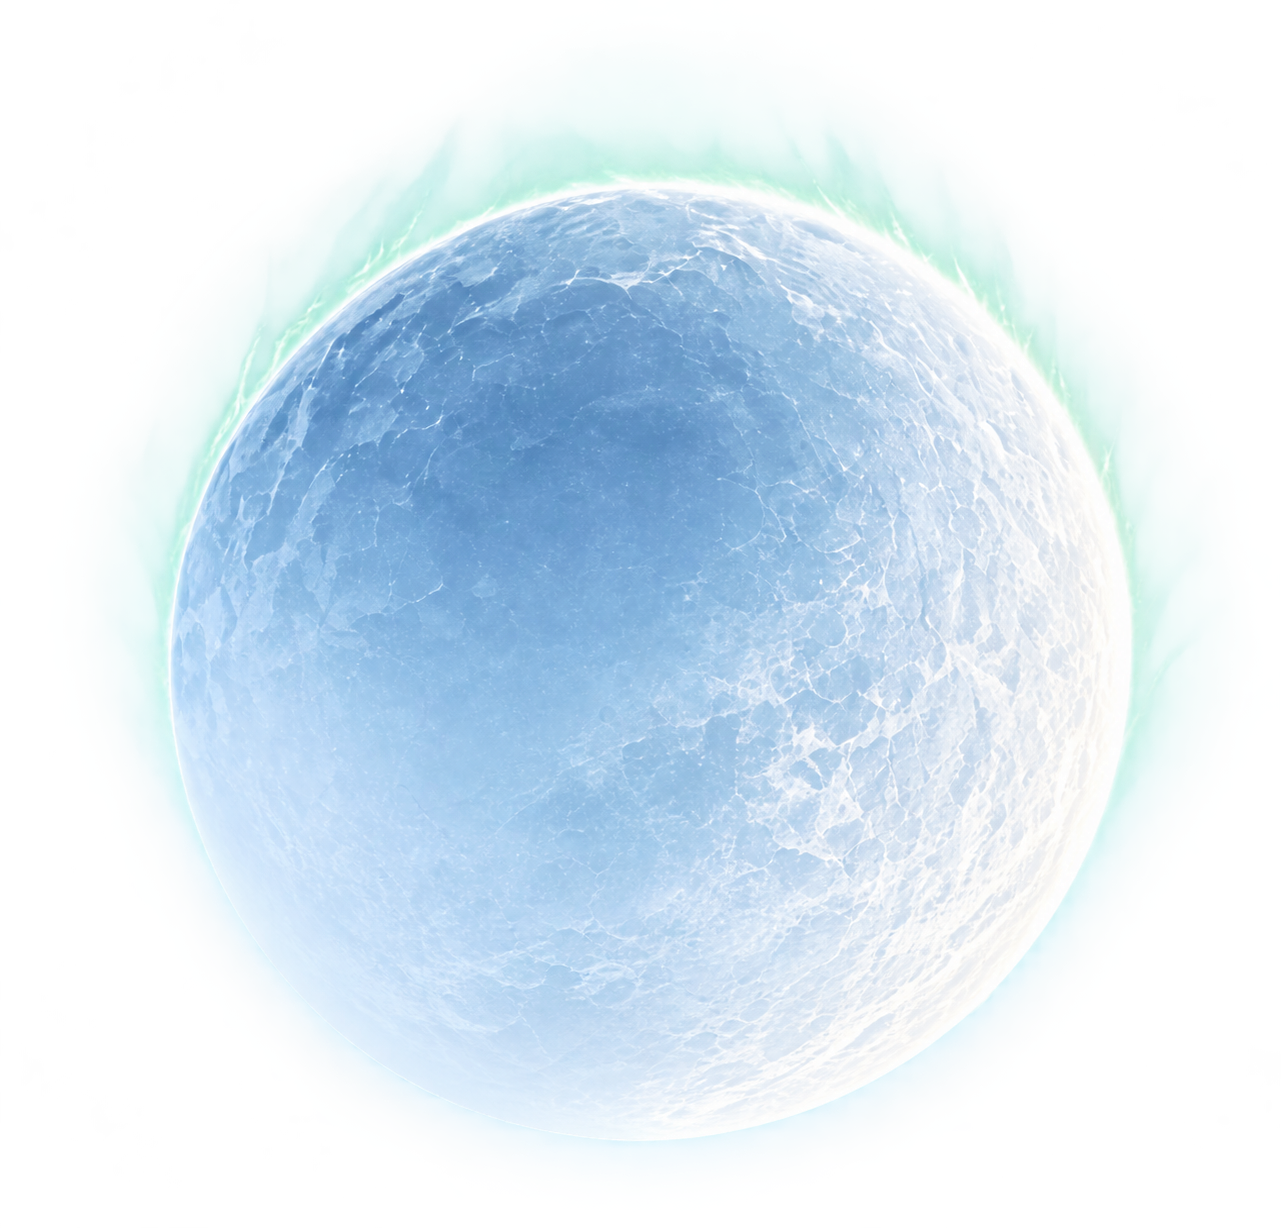
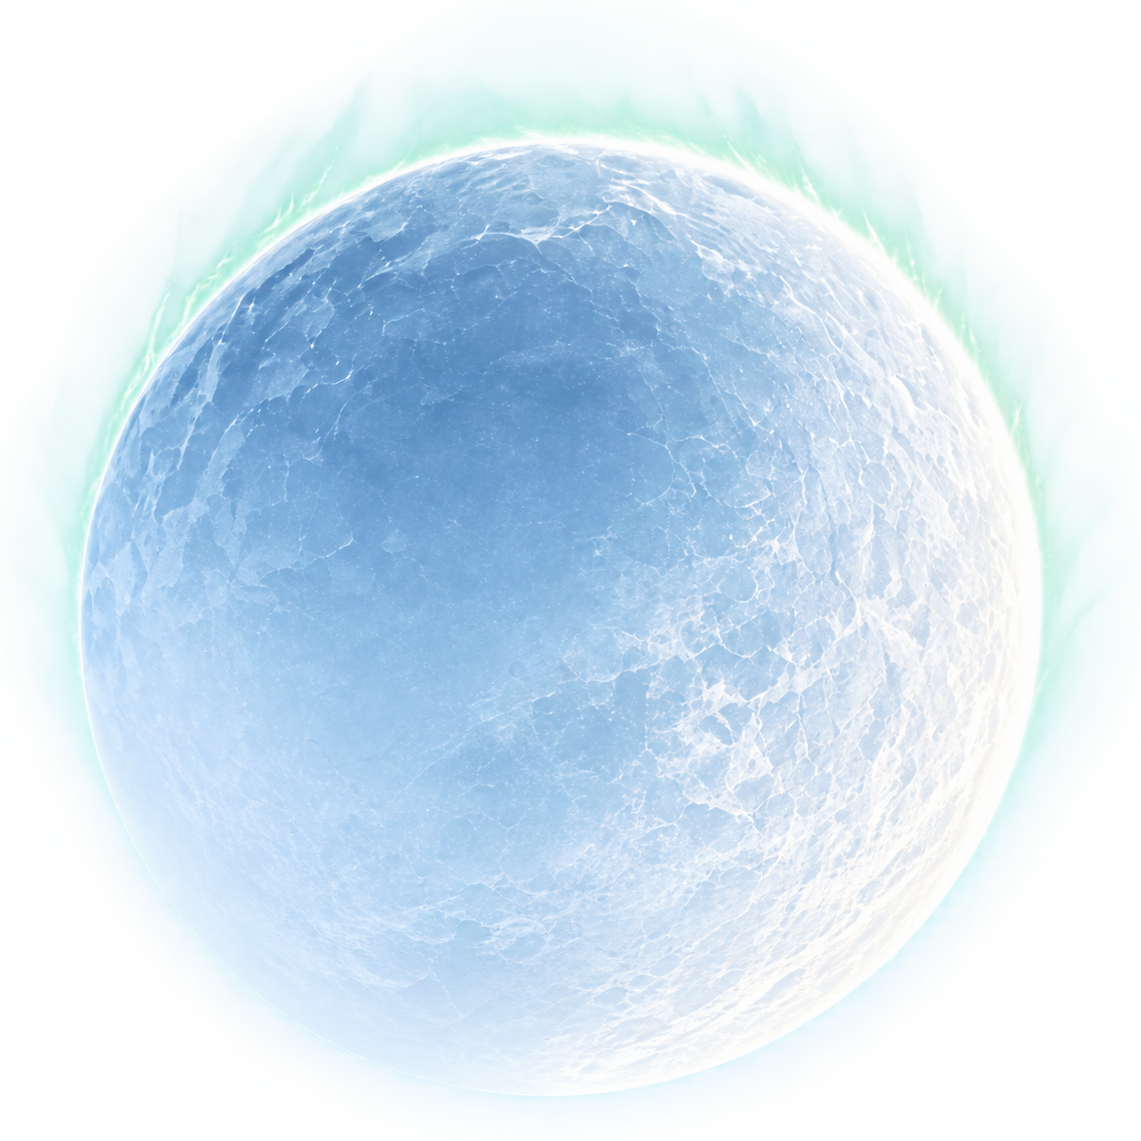
fix: align scroll morph circle pixel-perfectly with 3D sphere origin and diameter

diff --git a/src/components/Scene.tsx b/src/components/Scene.tsx
@@ -5,6 +5,7 @@ import mobileBgWebp from '../assets/mobile-bg.webp'
 import mobileBgPng from '../assets/mobile-bg.png'
 import sphereWebp from '../assets/middle-sphere.webp'
 import spherePng from '../assets/middle-sphere.png'
+import { getSphereMetrics } from '../lib/sphereMetrics'
 
 const prefersReduced = () =>
   typeof window !== 'undefined' &&
@@ -23,8 +24,7 @@ function smoothstep(min: number, max: number, value: number) {
  * CSS custom properties (--mx / --my / --sy) so every layer stays on the GPU.
  *
  * During scroll, the middle sphere co-animates with the VOID Wordmark:
- * scaling down from 1.0 -> 0.15, translating towards the top-left header,
- * and fading from 1.0 -> ~0.12 opacity to become a subtle celestial aura.
+ * scaling down and morphing into the top rounded header bar.
  */
 export function Scene() {
   const root = useRef<HTMLDivElement>(null)
@@ -78,43 +78,33 @@ export function Scene() {
       el.style.setProperty('--my', cy.toFixed(4))
       el.style.setProperty('--sy', Math.min(csy, 600).toFixed(2))
 
-      // Scroll-driven sphere co-animation: morphs into the top rounded bar
+      // Scroll-driven sphere co-animation: exactly matches ScrollHero headerBg morph
       const w = window.innerWidth
       const h = window.innerHeight
-      const isMobile = w <= 640
-      const isLg = w >= 1024
+      const m = getSphereMetrics(w, h)
 
       const transitionDistance = h
       const rawT = Math.min(1, Math.max(0, sy / transitionDistance))
       const morphT = isReduced ? (rawT >= 0.5 ? 1 : 0) : smoothstep(0.04, 0.94, rawT)
 
-      // Sphere geometry matching ScrollHero (capped to 48% viewport height)
-      const sphereD = isMobile
-        ? Math.min(300, Math.max(250, Math.round(Math.min(w * 0.65, h * 0.35))))
-        : Math.min(480, Math.max(220, Math.min(w * 0.44, h * 0.48)))
-      const sphereTopRatio = isMobile ? 0.09 : w <= 768 ? 0.06 : 0.07
-      const sphereHeroCenterY = Math.round(h * sphereTopRatio + sphereD / 2)
-
-      const margin = isMobile ? 8 : isLg ? 24 : 16
-      const targetWidth = w - 2 * margin
-      const targetHeight = isMobile ? 54 : 58
-      const targetCenterY = isMobile ? 33 : 37
-
       // Rises upward along center axis towards top rounded bar
-      const dy = (targetCenterY - sphereHeroCenterY) * morphT
-      const scaleX = 1.0 + (targetWidth / sphereD - 1.0) * morphT
-      const scaleY = 1.0 + (targetHeight / sphereD - 1.0) * morphT
+      const dy = (m.targetCenterY - m.sphereCenterY) * morphT
+      const scaleX = 1.0 + (m.targetWidth / m.sphereD - 1.0) * morphT
+      const scaleY = 1.0 + (m.targetHeight / m.sphereD - 1.0) * morphT
 
       // Sphere photo and glowing mint halo smoothly dissolve into the frosted glass capsule
       const sphereOp = Math.max(0, 1 - rawT / 0.40)
       const haloOp = Math.max(0, 1 - rawT / 0.35)
 
-      // Parallax fades out gently on scroll
-      const parallaxFactor = Math.max(0, 1 - rawT * 2.5)
+      // Mouse tilt parallax only (fades out on scroll so morph stays locked with headerBg)
+      const parallaxFactor = Math.max(0, 1 - rawT * 3)
       const px = cx * -5 * parallaxFactor
-      const py = (cy * -5 - csy * 0.14) * parallaxFactor
+      const py = cy * -5 * parallaxFactor
 
       if (sphereRef.current) {
+        sphereRef.current.style.width = `${m.sphereD}px`
+        sphereRef.current.style.height = `${m.sphereD}px`
+        sphereRef.current.style.top = `${m.sphereTop}px`
         sphereRef.current.style.transform = `translate3d(calc(-50% + ${px.toFixed(2)}px), ${(dy + py).toFixed(2)}px, 0) scale(${scaleX.toFixed(4)}, ${scaleY.toFixed(4)})`
         sphereRef.current.style.opacity = sphereOp.toFixed(3)
         sphereRef.current.style.visibility = sphereOp <= 0.001 ? 'hidden' : 'visible'
@@ -183,17 +173,16 @@ export function Scene() {
       {/* floating middle sphere / planet with atmospheric halo */}
       <div
         ref={sphereRef}
-        className="absolute left-1/2 top-[9%] sm:top-[6%] md:top-[7%]"
+        className="absolute left-1/2"
         style={{
           transformOrigin: 'center center',
-          transform:
-            'translate3d(calc(-50% + var(--mx) * -5px), calc(var(--my) * -5px - var(--sy) * 0.14px), 0)',
+          transform: 'translate3d(-50%, 0, 0)',
         }}
       >
         {/* mint coronal halo aura */}
         <div
           ref={haloRef}
-          className="absolute -inset-[12%] rounded-full mix-blend-screen pointer-events-none transition-opacity duration-200"
+          className="absolute -inset-[8%] rounded-full mix-blend-screen pointer-events-none transition-opacity duration-200"
           style={{
             animation: 'void-halo-pulse 9s ease-in-out infinite',
             background:
@@ -203,14 +192,14 @@ export function Scene() {
         />
 
         {/* high-resolution sphere cutout with gentle float */}
-        <picture>
+        <picture className="block size-full">
           <source srcSet={sphereWebp} type="image/webp" />
           <img
             src={spherePng}
             alt=""
             aria-hidden
             fetchPriority="high"
-            className="h-[65vw] max-h-[300px] min-h-[250px] w-[65vw] max-w-[300px] min-w-[250px] sm:h-[44vw] sm:max-h-[min(480px,48vh)] sm:min-h-[220px] sm:w-[44vw] sm:max-w-[min(480px,48vh)] sm:min-w-[220px] object-contain drop-shadow-[0_10px_35px_rgba(120,196,150,0.22)] select-none pointer-events-none"
+            className="size-full object-contain drop-shadow-[0_10px_35px_rgba(120,196,150,0.22)] select-none pointer-events-none"
             style={{
               animation: 'void-halo-pulse 11s ease-in-out infinite',
             }}

diff --git a/src/components/ScrollHero.tsx b/src/components/ScrollHero.tsx
@@ -3,6 +3,8 @@ import { ChevronDown, GearIcon } from './icons'
 import { SearchBar } from './SearchBar'
 import { Wordmark } from './Wordmark'
 
+import { getSphereMetrics } from '../lib/sphereMetrics'
+
 type Props = {
   query: string
   mode: string
@@ -33,32 +35,26 @@ function calculateMetrics() {
       heroSearchY: 510,
       targetSearchY: 16,
       targetSearchScale: 0.9,
+      sphereD: 300,
+      sphereTop: 72,
+      sphereCenterY: 222,
+      targetWidth: 800,
+      targetHeight: 58,
+      targetCenterY: 37,
     }
   }
 
   const w = window.innerWidth
   const h = window.innerHeight
-  const isMobile = w <= 640
-  const isLg = w >= 1024
+  const sm = getSphereMetrics(w, h)
 
   const transitionDistance = h
-
-  // Sphere geometry matching Scene.tsx (capped to 48% viewport height)
-  const sphereD = isMobile
-    ? Math.min(300, Math.max(250, Math.round(Math.min(w * 0.65, h * 0.35))))
-    : Math.min(480, Math.max(220, Math.min(w * 0.44, h * 0.48)))
-  const sphereTopRatio = isMobile ? 0.09 : w <= 768 ? 0.06 : 0.07
-  const sphereTop = Math.round(h * sphereTopRatio)
-  const sphereCenterY = Math.round(sphereTop + sphereD / 2)
-  const sphereBottom = sphereTop + sphereD
+  const isMobile = sm.isMobile
+  const isLg = sm.isLg
 
   const heroMark = isMobile ? 64 : 104
   const targetMark = isMobile ? 22 : 26
   const markScaleRatio = targetMark / heroMark
-
-  // SearchBar position on mobile
-  const searchBarWidth = (w - 32) * (isMobile ? 0.94 : 0.9)
-  const searchBarLeft = (w - searchBarWidth) / 2
 
   // On desktop: sits on the top-left of the header!
   const targetLeft = isMobile ? 20 : isLg ? 56 : 40
@@ -66,7 +62,7 @@ function calculateMetrics() {
   const targetMarkCenterY = 37
 
   const heroCenterX = w / 2
-  const heroWordmarkY = sphereCenterY
+  const heroWordmarkY = sm.sphereCenterY
   const dxAt1 = targetMarkCenterX - heroCenterX
   const dyAt1 = targetMarkCenterY
 
@@ -74,7 +70,7 @@ function calculateMetrics() {
   const heroTaglineY = heroWordmarkY + heroMark / 2 + (isMobile ? 12 : 16)
 
   // SearchBar is positioned downward just below the sphere bottom, keeping the sphere 100% visible
-  const heroSearchY = sphereBottom + (isMobile ? 18 : 20)
+  const heroSearchY = sm.sphereBottom + (isMobile ? 18 : 20)
 
   // In final state: SearchBar aligns horizontally in the top bar row on desktop and mobile
   const targetSearchY = isMobile ? 10 : 16
@@ -91,6 +87,12 @@ function calculateMetrics() {
     heroSearchY,
     targetSearchY,
     targetSearchScale,
+    sphereD: sm.sphereD,
+    sphereTop: sm.sphereTop,
+    sphereCenterY: sm.sphereCenterY,
+    targetWidth: sm.targetWidth,
+    targetHeight: sm.targetHeight,
+    targetCenterY: sm.targetCenterY,
   }
 }
 
@@ -147,28 +149,8 @@ export function ScrollHero({ query, mode, onMode, onSearch, onHome }: Props) {
 
       // 0. Frosted Glass Header Bar: morphs directly from the central sphere into the top rounded bar
       if (headerBgRef.current) {
-        const w = window.innerWidth
-        const h = window.innerHeight
-        const isMobile = w <= 640
-        const isLg = w >= 1024
-
-        // Sphere geometry matching Scene.tsx (capped to 48% viewport height)
-        const sphereD = isMobile
-          ? Math.min(300, Math.max(250, Math.round(Math.min(w * 0.65, h * 0.35))))
-          : Math.min(480, Math.max(220, Math.min(w * 0.44, h * 0.48)))
-        const sphereTopRatio = isMobile ? 0.09 : w <= 768 ? 0.06 : 0.07
-        const sphereTop = Math.round(h * sphereTopRatio)
-        const sphereHeroCenterY = Math.round(sphereTop + sphereD / 2)
-
-        const margin = isMobile ? 8 : isLg ? 24 : 16
-        const targetWidth = w - 2 * margin
-        const targetHeight = isMobile ? 54 : 58
-        const targetCenterY = isMobile ? 33 : 37
-
         const morphT = prefersReduced()
-          ? rawT >= 0.5
-            ? 1
-            : 0
+          ? (rawT >= 0.5 ? 1 : 0)
           : smoothstep(0.04, 0.94, rawT)
 
         if (morphT <= 0.001) {
@@ -181,15 +163,19 @@ export function ScrollHero({ query, mode, onMode, onSearch, onHome }: Props) {
           headerBgRef.current.style.opacity = op.toFixed(3)
           headerBgRef.current.style.pointerEvents = morphT >= 0.85 ? 'auto' : 'none'
 
-          const currentCenterY = sphereHeroCenterY + (targetCenterY - sphereHeroCenterY) * morphT
-          const currentWidth = sphereD + (targetWidth - sphereD) * morphT
-          const currentHeight = sphereD + (targetHeight - sphereD) * morphT
+          const currentCenterY = m.sphereCenterY + (m.targetCenterY - m.sphereCenterY) * morphT
+          const currentWidth = m.sphereD + (m.targetWidth - m.sphereD) * morphT
+          const currentHeight = m.sphereD + (m.targetHeight - m.sphereD) * morphT
           const currentLeft = (w - currentWidth) / 2
           const currentTop = currentCenterY - currentHeight / 2
 
           // Target border radius: capsule pill on both mobile and desktop
-          const targetRadius = targetHeight / 2
-          const currentRadius = sphereD / 2 + (targetRadius - sphereD / 2) * morphT
+          const targetRadius = m.targetHeight / 2
+          const currentRadius = m.sphereD / 2 + (targetRadius - m.sphereD / 2) * morphT
+
+          // Smoothly fade in border as it morphs into the header capsule
+          const borderOp = smoothstep(0.12, 0.60, rawT)
+          headerBgRef.current.style.borderColor = `rgba(216, 222, 224, ${borderOp.toFixed(3)})`
 
           headerBgRef.current.style.left = `${currentLeft.toFixed(1)}px`
           headerBgRef.current.style.top = `${currentTop.toFixed(1)}px`

diff --git a/src/lib/sphereMetrics.ts b/src/lib/sphereMetrics.ts
@@ -1,0 +1,33 @@
+export function getSphereMetrics(w: number, h: number) {
+  const isMobile = w <= 640
+  const isLg = w >= 1024
+
+  // Explicit, deterministic sphere diameter matching 1:1 cropped middle-sphere asset
+  const sphereD = isMobile
+    ? Math.min(290, Math.max(240, Math.round(w * 0.65)))
+    : Math.min(460, Math.max(240, Math.round(Math.min(w * 0.44, h * 0.46))))
+
+  // Top offset
+  const sphereTopRatio = isMobile ? 0.09 : w <= 768 ? 0.06 : 0.07
+  const sphereTop = Math.round(h * sphereTopRatio)
+  const sphereCenterY = Math.round(sphereTop + sphereD / 2)
+  const sphereBottom = sphereTop + sphereD
+
+  // Target header capsule dimensions
+  const margin = isMobile ? 8 : isLg ? 24 : 16
+  const targetWidth = w - 2 * margin
+  const targetHeight = isMobile ? 54 : 58
+  const targetCenterY = isMobile ? 33 : 37
+
+  return {
+    isMobile,
+    isLg,
+    sphereD,
+    sphereTop,
+    sphereCenterY,
+    sphereBottom,
+    targetWidth,
+    targetHeight,
+    targetCenterY,
+  }
+}
